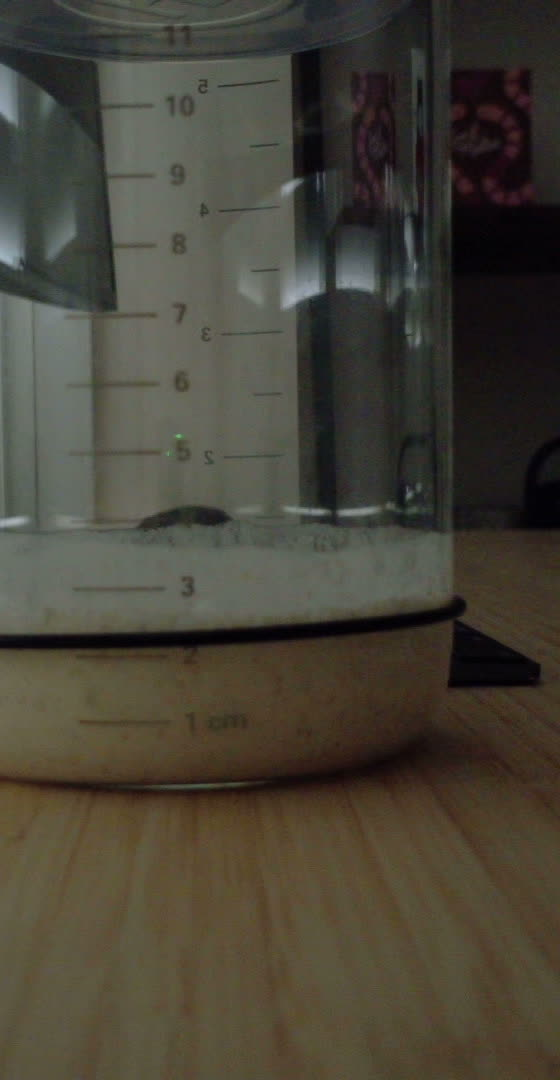
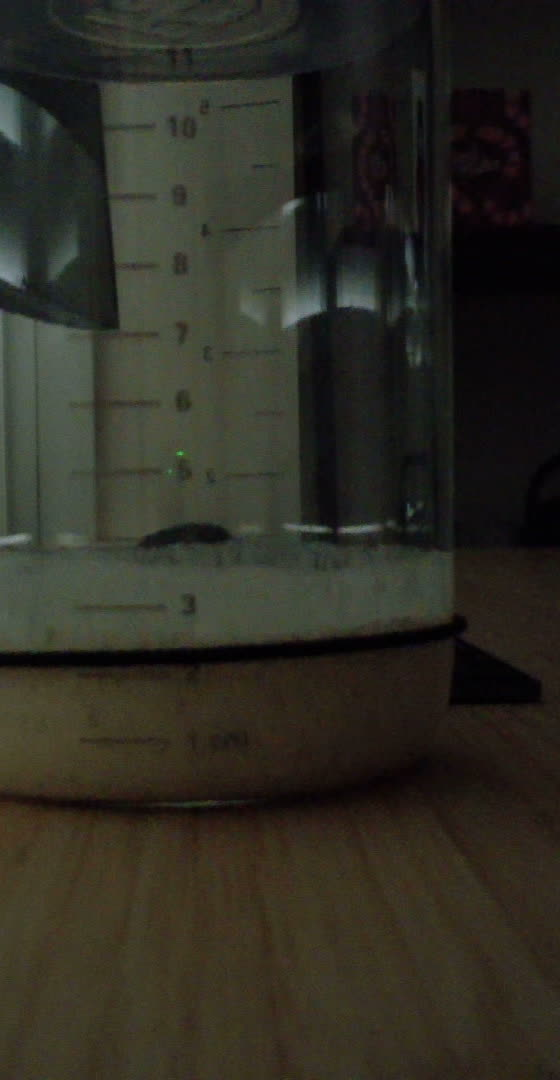
chore: record starter reading

diff --git a/public/index.html b/public/index.html
@@ -2,11 +2,11 @@
 <html lang="en"><head><meta charset="utf-8"><meta name="viewport" content="width=device-width,initial-scale=1"><title>Simon’s Sourdough Starter Watch</title>
 <link href="https://fonts.googleapis.com/css2?family=IBM+Plex+Sans:wght@400;500;600;700;800&family=JetBrains+Mono:wght@400;500;600;700&family=Fraunces:opsz,wght@9..144,650;9..144,800&display=swap" rel="stylesheet">
 <link rel="stylesheet" href="styles.css"></head><body><div class="wrap"><header class="topbar"><div class="brand"><div class="logo" aria-hidden="true"><div class="loafLogo" role="img" aria-label="cartoon bread loaf logo"><span class="loafBody"></span><span class="crust-mark crust-mark-a"></span><span class="crust-mark crust-mark-b"></span><span class="crust-mark crust-mark-c"></span><span class="loafSmile"></span></div></div><div>Simon’s Sourdough Starter Watch</div></div><div class="navpills"><span class="pill dark">FERMENTATION LAB · STORY MODE</span><span class="pill orange">Observed by <a class="hermesLink" href="https://hermes-agent.nousresearch.com/" target="_blank" rel="noopener noreferrer">Hermes</a></span></div></header>
-<main><section class="hero"><div class="panel heroCopy"><span class="tag">STARTER-001 · PUBLIC OBSERVATORY</span><h1>One Jar.<br>One Webcam.<br>Many Bubbles.</h1><p class="sub">A living fermentation experiment watched by a webcam and narrated by Hermes. The agent checks the starter, estimates its rise, writes notes, and pings Telegram when the jar does something worth noticing.</p><div class="storyline"><span class="storylineLabel">Current status</span><b>Today’s mood: ambitious.</b> Hermes visual read: surface is around the mid-3 cm band; ignored glare, residue, jar curvature, and old streaks. Hermes has armed peak watch, which is less dramatic than it sounds — but only slightly.</div><div class="metrics"><div class="metric"><span>Rise</span><b>+55%</b></div><div class="metric"><span>Stage</span><b>Rising</b><small>starter activity</small></div><div class="metric"><span>Read confidence</span><b>62%</b><small>visual read certainty</small></div><div class="metric"><span>Watch cadence</span><b>10m</b><small>checks adjust automatically</small></div></div></div><div class="panel photo snapshotCard"><div class="snapshotViewport"><img class="snapshotBackdrop" src="photos/starter.jpg" alt="" aria-hidden="true"><img class="starterSnapshot" src="photos/starter.jpg" alt="latest webcam view of sourdough starter"><div class="measurementOverlay" aria-label="visual guide to the latest starter measurement">
-    <span class="measureLine currentLine"><b>Current ~3.4 cm</b></span>
+<main><section class="hero"><div class="panel heroCopy"><span class="tag">STARTER-001 · PUBLIC OBSERVATORY</span><h1>One Jar.<br>One Webcam.<br>Many Bubbles.</h1><p class="sub">A living fermentation experiment watched by a webcam and narrated by Hermes. The agent checks the starter, estimates its rise, writes notes, and pings Telegram when the jar does something worth noticing.</p><div class="storyline"><span class="storylineLabel">Current status</span><b>Today’s mood: settling.</b> Hermes visual read: surface appears near the lower 3 cm band; ignored glare, jar curvature, wall residue, reflections, and old streaks. Hermes has armed peak watch, which is less dramatic than it sounds — but only slightly.</div><div class="metrics"><div class="metric"><span>Rise</span><b>+32%</b></div><div class="metric"><span>Stage</span><b>Falling</b><small>starter activity</small></div><div class="metric"><span>Read confidence</span><b>55%</b><small>visual read certainty</small></div><div class="metric"><span>Watch cadence</span><b>30m</b><small>checks adjust automatically</small></div></div></div><div class="panel photo snapshotCard"><div class="snapshotViewport"><img class="snapshotBackdrop" src="photos/starter.jpg" alt="" aria-hidden="true"><img class="starterSnapshot" src="photos/starter.jpg" alt="latest webcam view of sourdough starter"><div class="measurementOverlay" aria-label="visual guide to the latest starter measurement">
+    <span class="measureLine currentLine"><b>Current ~2.9 cm</b></span>
     <span class="measureLine baselineLine"><b>Baseline 2.2 cm</b></span>
-  </div></div><div class="photoOverlay"><div><strong>Latest webcam frame</strong><small>Actual camera view used for estimation</small></div><div><small>19:06 · webcam</small></div></div><div class="measurementSummary"><strong>Measured from the photo</strong><span>Baseline 2.2 cm → current ~3.4 cm → +55% rise</span></div><div class="photoInsight"><div><strong>Latest reading</strong><b>+55% rise</b></div><div><strong>What to look for</strong><span>bubbles, the height line, and whether the top is domed or sinking</span></div></div></div></section>
-<section class="grid readingsGrid"><div class="panel curvePanel"><div class="sectionHead"><h2>Today’s rise curve</h2><span class="pill">actual readings vs. baseline</span></div><div class="chartFrame"><svg class="chart chartDesktop" data-chart="actual-observations" viewBox="0 0 760 270" preserveAspectRatio="xMidYMid meet" aria-label="starter rise over time"><defs><linearGradient id="riseFill2" x1="0" y1="0" x2="0" y2="1"><stop offset="0%" stop-color="#f54e00" stop-opacity=".20"/><stop offset="100%" stop-color="#f54e00" stop-opacity="0"/></linearGradient></defs><g class="axis"><path d="M54 28.0H704M54 82.0H704M54 136.0H704M54 190.0H704M54 244.0H704"/><path d="M54.0 28V244M216.5 28V244M379.0 28V244M541.5 28V244M704.0 28V244"/></g><g class="ylabel"><text x="8" y="34">100%</text><text x="8" y="88">75%</text><text x="8" y="142">50%</text><text x="8" y="196">25%</text><text x="16" y="248">0%</text></g><path class="area" d="M54.0 244.0 L74.8 166.2 L87.5 146.8 L161.4 125.2 L233.0 125.2 L304.5 136.0 L376.1 136.0 L448.8 136.0 L566.6 136.0 L588.5 136.0 L605.9 125.2 L623.2 86.3 L640.5 105.8 L650.9 136.0 L665.9 105.8 L680.9 125.2 L692.5 146.8 L704.0 125.2 L704.0 244 L54.0 244 Z"/><path class="line" d="M54.0 244.0 L74.8 166.2 L87.5 146.8 L161.4 125.2 L233.0 125.2 L304.5 136.0 L376.1 136.0 L448.8 136.0 L566.6 136.0 L588.5 136.0 L605.9 125.2 L623.2 86.3 L640.5 105.8 L650.9 136.0 L665.9 105.8 L680.9 125.2 L692.5 146.8 L704.0 125.2"/><g class="dots"><circle class="chartDot" data-rise="0" aria-label="09:43: +0% rise" cx="54.0" cy="244.0" r="5"/><circle class="chartDot" data-rise="36" aria-label="10:01: +36% rise" cx="74.8" cy="166.2" r="5"/><circle class="chartDot" data-rise="45" aria-label="10:12: +45% rise" cx="87.5" cy="146.8" r="5"/><circle class="chartDot" data-rise="55" aria-label="11:16: +55% rise" cx="161.4" cy="125.2" r="5"/><circle class="chartDot" data-rise="55" aria-label="12:18: +55% rise" cx="233.0" cy="125.2" r="5"/><circle class="chartDot" data-rise="50" aria-label="13:20: +50% rise" cx="304.5" cy="136.0" r="5"/><circle class="chartDot" data-rise="50" aria-label="14:22: +50% rise" cx="376.1" cy="136.0" r="5"/><circle class="chartDot" data-rise="50" aria-label="15:25: +50% rise" cx="448.8" cy="136.0" r="5"/><circle class="chartDot" data-rise="50" aria-label="17:07: +50% rise" cx="566.6" cy="136.0" r="5"/><circle class="chartDot" data-rise="50" aria-label="17:26: +50% rise" cx="588.5" cy="136.0" r="5"/><circle class="chartDot" data-rise="55" aria-label="17:41: +55% rise" cx="605.9" cy="125.2" r="5"/><circle class="chartDot" data-rise="73" aria-label="17:56: +73% rise" cx="623.2" cy="86.3" r="5"/><circle class="chartDot" data-rise="64" aria-label="18:11: +64% rise" cx="640.5" cy="105.8" r="5"/><circle class="chartDot" data-rise="50" aria-label="18:20: +50% rise" cx="650.9" cy="136.0" r="5"/><circle class="chartDot" data-rise="64" aria-label="18:33: +64% rise" cx="665.9" cy="105.8" r="5"/><circle class="chartDot" data-rise="55" aria-label="18:46: +55% rise" cx="680.9" cy="125.2" r="5"/><circle class="chartDot" data-rise="45" aria-label="18:56: +45% rise" cx="692.5" cy="146.8" r="5"/><circle class="chartDot" data-rise="55" aria-label="19:06: +55% rise" cx="704.0" cy="125.2" r="7"/></g><g class="xlabel"><text text-anchor="start" x="54.0" y="258">09:43</text><text text-anchor="middle" x="588.5" y="258">17:26</text><text text-anchor="end" x="704.0" y="258">19:06</text></g></svg><svg class="chart chartMobile" data-chart="actual-observations" viewBox="0 0 390 330" preserveAspectRatio="xMidYMid meet" aria-label="starter rise over time"><defs><linearGradient id="riseFill2" x1="0" y1="0" x2="0" y2="1"><stop offset="0%" stop-color="#f54e00" stop-opacity=".20"/><stop offset="100%" stop-color="#f54e00" stop-opacity="0"/></linearGradient></defs><g class="axis"><path d="M48 34.0H350M48 97.0H350M48 160.0H350M48 223.0H350M48 286.0H350"/><path d="M48.0 34V286M123.5 34V286M199.0 34V286M274.5 34V286M350.0 34V286"/></g><g class="ylabel"><text x="4" y="40">100%</text><text x="4" y="103">75%</text><text x="4" y="166">50%</text><text x="4" y="229">25%</text><text x="12" y="290">0%</text></g><path class="area" d="M48.0 286.0 L57.7 195.3 L63.6 172.6 L97.9 147.4 L131.1 147.4 L164.4 160.0 L197.7 160.0 L231.5 160.0 L286.2 160.0 L296.4 160.0 L304.4 147.4 L312.5 102.0 L320.5 124.7 L325.3 160.0 L332.3 124.7 L339.3 147.4 L344.6 172.6 L350.0 147.4 L350.0 286 L48.0 286 Z"/><path class="line" d="M48.0 286.0 L57.7 195.3 L63.6 172.6 L97.9 147.4 L131.1 147.4 L164.4 160.0 L197.7 160.0 L231.5 160.0 L286.2 160.0 L296.4 160.0 L304.4 147.4 L312.5 102.0 L320.5 124.7 L325.3 160.0 L332.3 124.7 L339.3 147.4 L344.6 172.6 L350.0 147.4"/><g class="dots"><circle class="chartDot" data-rise="0" aria-label="09:43: +0% rise" cx="48.0" cy="286.0" r="5"/><circle class="chartDot" data-rise="36" aria-label="10:01: +36% rise" cx="57.7" cy="195.3" r="5"/><circle class="chartDot" data-rise="45" aria-label="10:12: +45% rise" cx="63.6" cy="172.6" r="5"/><circle class="chartDot" data-rise="55" aria-label="11:16: +55% rise" cx="97.9" cy="147.4" r="5"/><circle class="chartDot" data-rise="55" aria-label="12:18: +55% rise" cx="131.1" cy="147.4" r="5"/><circle class="chartDot" data-rise="50" aria-label="13:20: +50% rise" cx="164.4" cy="160.0" r="5"/><circle class="chartDot" data-rise="50" aria-label="14:22: +50% rise" cx="197.7" cy="160.0" r="5"/><circle class="chartDot" data-rise="50" aria-label="15:25: +50% rise" cx="231.5" cy="160.0" r="5"/><circle class="chartDot" data-rise="50" aria-label="17:07: +50% rise" cx="286.2" cy="160.0" r="5"/><circle class="chartDot" data-rise="50" aria-label="17:26: +50% rise" cx="296.4" cy="160.0" r="5"/><circle class="chartDot" data-rise="55" aria-label="17:41: +55% rise" cx="304.4" cy="147.4" r="5"/><circle class="chartDot" data-rise="73" aria-label="17:56: +73% rise" cx="312.5" cy="102.0" r="5"/><circle class="chartDot" data-rise="64" aria-label="18:11: +64% rise" cx="320.5" cy="124.7" r="5"/><circle class="chartDot" data-rise="50" aria-label="18:20: +50% rise" cx="325.3" cy="160.0" r="5"/><circle class="chartDot" data-rise="64" aria-label="18:33: +64% rise" cx="332.3" cy="124.7" r="5"/><circle class="chartDot" data-rise="55" aria-label="18:46: +55% rise" cx="339.3" cy="147.4" r="5"/><circle class="chartDot" data-rise="45" aria-label="18:56: +45% rise" cx="344.6" cy="172.6" r="5"/><circle class="chartDot" data-rise="55" aria-label="19:06: +55% rise" cx="350.0" cy="147.4" r="7"/></g><g class="xlabel"><text text-anchor="start" x="48.0" y="318">09:43</text><text text-anchor="middle" x="296.4" y="318">17:26</text><text text-anchor="end" x="350.0" y="318">19:06</text></g></svg></div><div class="latestReadingCallout"><strong>Now: +55% at 19:06</strong><span>latest measured point from the webcam sequence</span></div><div class="curveAnnotations"><div class="annotationHead"><h3>Key moments</h3><span>notes from today’s rise</span></div><div class="annotationList">
+  </div></div><div class="photoOverlay"><div><strong>Latest webcam frame</strong><small>Actual camera view used for estimation</small></div><div><small>19:21 · webcam</small></div></div><div class="measurementSummary"><strong>Measured from the photo</strong><span>Baseline 2.2 cm → current ~2.9 cm → +32% rise</span></div><div class="photoInsight"><div><strong>Latest reading</strong><b>+32% rise</b></div><div><strong>What to look for</strong><span>bubbles, the height line, and whether the top is domed or sinking</span></div></div></div></section>
+<section class="grid readingsGrid"><div class="panel curvePanel"><div class="sectionHead"><h2>Today’s rise curve</h2><span class="pill">actual readings vs. baseline</span></div><div class="chartFrame"><svg class="chart chartDesktop" data-chart="actual-observations" viewBox="0 0 760 270" preserveAspectRatio="xMidYMid meet" aria-label="starter rise over time"><defs><linearGradient id="riseFill2" x1="0" y1="0" x2="0" y2="1"><stop offset="0%" stop-color="#f54e00" stop-opacity=".20"/><stop offset="100%" stop-color="#f54e00" stop-opacity="0"/></linearGradient></defs><g class="axis"><path d="M54 28.0H704M54 82.0H704M54 136.0H704M54 190.0H704M54 244.0H704"/><path d="M54.0 28V244M216.5 28V244M379.0 28V244M541.5 28V244M704.0 28V244"/></g><g class="ylabel"><text x="8" y="34">100%</text><text x="8" y="88">75%</text><text x="8" y="142">50%</text><text x="8" y="196">25%</text><text x="16" y="248">0%</text></g><path class="area" d="M54.0 244.0 L74.2 166.2 L86.6 146.8 L158.6 125.2 L228.3 125.2 L298.0 136.0 L367.8 136.0 L438.6 136.0 L553.3 136.0 L574.7 136.0 L591.5 125.2 L608.4 86.3 L625.3 105.8 L635.4 136.0 L650.0 105.8 L664.6 125.2 L675.9 146.8 L687.1 125.2 L704.0 174.9 L704.0 244 L54.0 244 Z"/><path class="line" d="M54.0 244.0 L74.2 166.2 L86.6 146.8 L158.6 125.2 L228.3 125.2 L298.0 136.0 L367.8 136.0 L438.6 136.0 L553.3 136.0 L574.7 136.0 L591.5 125.2 L608.4 86.3 L625.3 105.8 L635.4 136.0 L650.0 105.8 L664.6 125.2 L675.9 146.8 L687.1 125.2 L704.0 174.9"/><g class="dots"><circle class="chartDot" data-rise="0" aria-label="09:43: +0% rise" cx="54.0" cy="244.0" r="5"/><circle class="chartDot" data-rise="36" aria-label="10:01: +36% rise" cx="74.2" cy="166.2" r="5"/><circle class="chartDot" data-rise="45" aria-label="10:12: +45% rise" cx="86.6" cy="146.8" r="5"/><circle class="chartDot" data-rise="55" aria-label="11:16: +55% rise" cx="158.6" cy="125.2" r="5"/><circle class="chartDot" data-rise="55" aria-label="12:18: +55% rise" cx="228.3" cy="125.2" r="5"/><circle class="chartDot" data-rise="50" aria-label="13:20: +50% rise" cx="298.0" cy="136.0" r="5"/><circle class="chartDot" data-rise="50" aria-label="14:22: +50% rise" cx="367.8" cy="136.0" r="5"/><circle class="chartDot" data-rise="50" aria-label="15:25: +50% rise" cx="438.6" cy="136.0" r="5"/><circle class="chartDot" data-rise="50" aria-label="17:07: +50% rise" cx="553.3" cy="136.0" r="5"/><circle class="chartDot" data-rise="50" aria-label="17:26: +50% rise" cx="574.7" cy="136.0" r="5"/><circle class="chartDot" data-rise="55" aria-label="17:41: +55% rise" cx="591.5" cy="125.2" r="5"/><circle class="chartDot" data-rise="73" aria-label="17:56: +73% rise" cx="608.4" cy="86.3" r="5"/><circle class="chartDot" data-rise="64" aria-label="18:11: +64% rise" cx="625.3" cy="105.8" r="5"/><circle class="chartDot" data-rise="50" aria-label="18:20: +50% rise" cx="635.4" cy="136.0" r="5"/><circle class="chartDot" data-rise="64" aria-label="18:33: +64% rise" cx="650.0" cy="105.8" r="5"/><circle class="chartDot" data-rise="55" aria-label="18:46: +55% rise" cx="664.6" cy="125.2" r="5"/><circle class="chartDot" data-rise="45" aria-label="18:56: +45% rise" cx="675.9" cy="146.8" r="5"/><circle class="chartDot" data-rise="55" aria-label="19:06: +55% rise" cx="687.1" cy="125.2" r="5"/><circle class="chartDot" data-rise="32" aria-label="19:21: +32% rise" cx="704.0" cy="174.9" r="7"/></g><g class="xlabel"><text text-anchor="start" x="54.0" y="258">09:43</text><text text-anchor="middle" x="574.7" y="258">17:26</text><text text-anchor="end" x="704.0" y="258">19:21</text></g></svg><svg class="chart chartMobile" data-chart="actual-observations" viewBox="0 0 390 330" preserveAspectRatio="xMidYMid meet" aria-label="starter rise over time"><defs><linearGradient id="riseFill2" x1="0" y1="0" x2="0" y2="1"><stop offset="0%" stop-color="#f54e00" stop-opacity=".20"/><stop offset="100%" stop-color="#f54e00" stop-opacity="0"/></linearGradient></defs><g class="axis"><path d="M48 34.0H350M48 97.0H350M48 160.0H350M48 223.0H350M48 286.0H350"/><path d="M48.0 34V286M123.5 34V286M199.0 34V286M274.5 34V286M350.0 34V286"/></g><g class="ylabel"><text x="4" y="40">100%</text><text x="4" y="103">75%</text><text x="4" y="166">50%</text><text x="4" y="229">25%</text><text x="12" y="290">0%</text></g><path class="area" d="M48.0 286.0 L57.4 195.3 L63.2 172.6 L96.6 147.4 L129.0 147.4 L161.4 160.0 L193.8 160.0 L226.7 160.0 L280.0 160.0 L289.9 160.0 L297.8 147.4 L305.6 102.0 L313.4 124.7 L318.1 160.0 L324.9 124.7 L331.7 147.4 L336.9 172.6 L342.2 147.4 L350.0 205.4 L350.0 286 L48.0 286 Z"/><path class="line" d="M48.0 286.0 L57.4 195.3 L63.2 172.6 L96.6 147.4 L129.0 147.4 L161.4 160.0 L193.8 160.0 L226.7 160.0 L280.0 160.0 L289.9 160.0 L297.8 147.4 L305.6 102.0 L313.4 124.7 L318.1 160.0 L324.9 124.7 L331.7 147.4 L336.9 172.6 L342.2 147.4 L350.0 205.4"/><g class="dots"><circle class="chartDot" data-rise="0" aria-label="09:43: +0% rise" cx="48.0" cy="286.0" r="5"/><circle class="chartDot" data-rise="36" aria-label="10:01: +36% rise" cx="57.4" cy="195.3" r="5"/><circle class="chartDot" data-rise="45" aria-label="10:12: +45% rise" cx="63.2" cy="172.6" r="5"/><circle class="chartDot" data-rise="55" aria-label="11:16: +55% rise" cx="96.6" cy="147.4" r="5"/><circle class="chartDot" data-rise="55" aria-label="12:18: +55% rise" cx="129.0" cy="147.4" r="5"/><circle class="chartDot" data-rise="50" aria-label="13:20: +50% rise" cx="161.4" cy="160.0" r="5"/><circle class="chartDot" data-rise="50" aria-label="14:22: +50% rise" cx="193.8" cy="160.0" r="5"/><circle class="chartDot" data-rise="50" aria-label="15:25: +50% rise" cx="226.7" cy="160.0" r="5"/><circle class="chartDot" data-rise="50" aria-label="17:07: +50% rise" cx="280.0" cy="160.0" r="5"/><circle class="chartDot" data-rise="50" aria-label="17:26: +50% rise" cx="289.9" cy="160.0" r="5"/><circle class="chartDot" data-rise="55" aria-label="17:41: +55% rise" cx="297.8" cy="147.4" r="5"/><circle class="chartDot" data-rise="73" aria-label="17:56: +73% rise" cx="305.6" cy="102.0" r="5"/><circle class="chartDot" data-rise="64" aria-label="18:11: +64% rise" cx="313.4" cy="124.7" r="5"/><circle class="chartDot" data-rise="50" aria-label="18:20: +50% rise" cx="318.1" cy="160.0" r="5"/><circle class="chartDot" data-rise="64" aria-label="18:33: +64% rise" cx="324.9" cy="124.7" r="5"/><circle class="chartDot" data-rise="55" aria-label="18:46: +55% rise" cx="331.7" cy="147.4" r="5"/><circle class="chartDot" data-rise="45" aria-label="18:56: +45% rise" cx="336.9" cy="172.6" r="5"/><circle class="chartDot" data-rise="55" aria-label="19:06: +55% rise" cx="342.2" cy="147.4" r="5"/><circle class="chartDot" data-rise="32" aria-label="19:21: +32% rise" cx="350.0" cy="205.4" r="7"/></g><g class="xlabel"><text text-anchor="start" x="48.0" y="318">09:43</text><text text-anchor="middle" x="289.9" y="318">17:26</text><text text-anchor="end" x="350.0" y="318">19:21</text></g></svg></div><div class="latestReadingCallout"><strong>Now: +32% at 19:21</strong><span>latest measured point from the webcam sequence</span></div><div class="curveAnnotations"><div class="annotationHead"><h3>Key moments</h3><span>notes from today’s rise</span></div><div class="annotationList">
     <article class="annotation" data-event-time="08:10">
       <time>08:10</time>
       <div><strong>Fed.</strong><p>Simon reset the baseline. The origin story begins again.</p></div>
